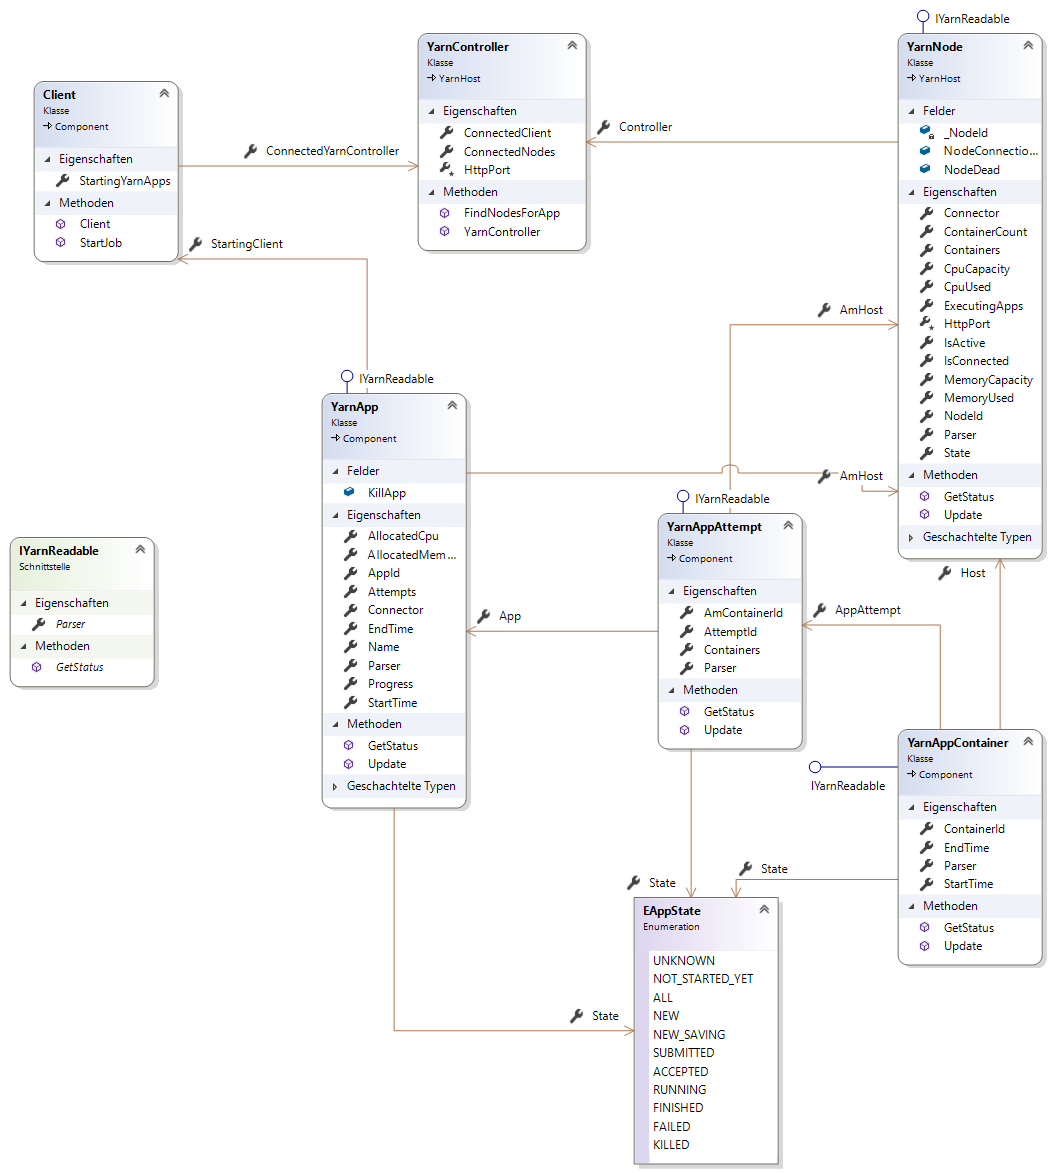
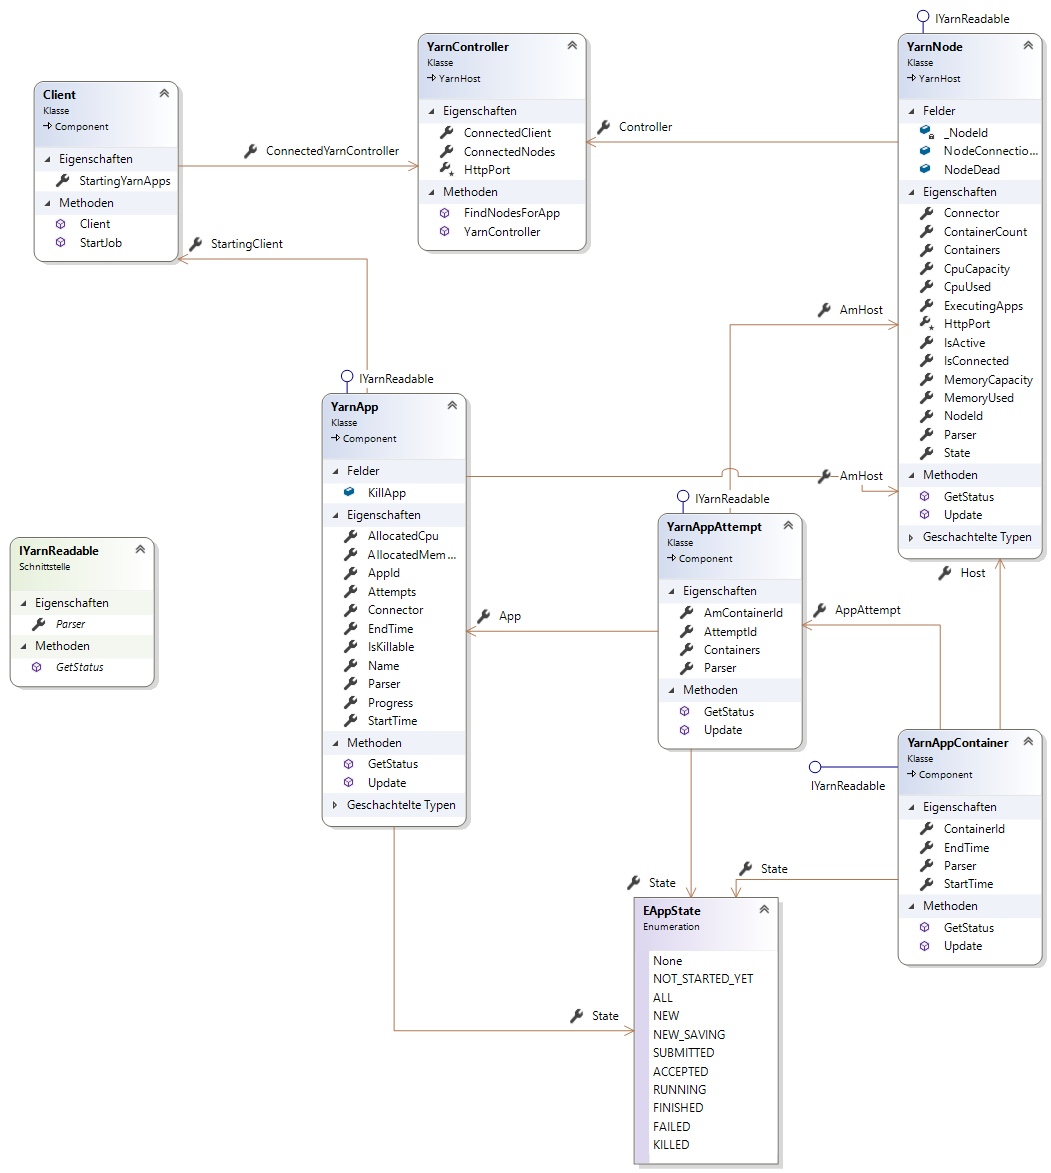
changed EAppState to bitwise enum

Changed region(s): [[0.3045, 0.5217, 0.4567, 0.7059], [0.6089, 0.798, 0.6698, 0.8286]]

diff --git a/Models/TestingHadoop/Modeling/HadoopModel/EAppState.cs b/Models/TestingHadoop/Modeling/HadoopModel/EAppState.cs
@@ -20,6 +20,8 @@
 // OUT OF OR IN CONNECTION WITH THE SOFTWARE OR THE USE OR OTHER DEALINGS IN
 // THE SOFTWARE.
 
+using System;
+
 namespace SafetySharp.CaseStudies.TestingHadoop.Modeling.HadoopModel
 {
     /// <summary>
@@ -32,51 +34,52 @@ namespace SafetySharp.CaseStudies.TestingHadoop.Modeling.HadoopModel
     /// 
     /// via http://hadoop.apache.org/docs/r2.7.1/hadoop-yarn/hadoop-yarn-site/YarnCommands.html
     /// </remarks>
+    [Flags]
     public enum EAppState
     {
         /// <summary>
         /// Default value
         /// </summary>
-        UNKNOWN,
+        None = 0,
 
         /// <summary>
         /// Job not started yet. State only for use inside model.
         /// Can be used to indicate, that the instance was not in use.
         /// </summary>
-        NOT_STARTED_YET,
+        NOT_STARTED_YET = 1,
 
-        ALL,
-        NEW,
-        NEW_SAVING,
+        ALL = 2,
+        NEW = 4,
+        NEW_SAVING = 8,
 
         /// <summary>
         /// Job is submitted
         /// </summary>
-        SUBMITTED,
+        SUBMITTED = 16,
 
         /// <summary>
         /// Job can be executed
         /// </summary>
-        ACCEPTED,
+        ACCEPTED = 32,
 
         /// <summary>
         /// Job is running
         /// </summary>
-        RUNNING,
+        RUNNING = 64,
 
         /// <summary>
         /// Job is finished
         /// </summary>
-        FINISHED,
+        FINISHED = 128,
 
         /// <summary>
         /// Job execution failed
         /// </summary>
-        FAILED,
+        FAILED = 256,
 
         /// <summary>
         /// Job was killed while execution
         /// </summary>
-        KILLED
+        KILLED = 512
     }
 }

diff --git a/Models/TestingHadoop/Modeling/Driver/CmdLineParser.cs b/Models/TestingHadoop/Modeling/Driver/CmdLineParser.cs
@@ -101,7 +101,7 @@ namespace SafetySharp.CaseStudies.TestingHadoop.Modeling.Driver
         }
 
         /// <summary>
-        /// Parses the <see cref="EAppState"/> or returns the default value <see cref="EAppState.UNKNOWN"/>
+        /// Parses the <see cref="EAppState"/> or returns the default value <see cref="EAppState.None"/>
         /// </summary>
         /// <param name="state">The state to parse</param>
         /// <returns>The parsed <see cref="EAppState"/></returns>
@@ -169,9 +169,12 @@ namespace SafetySharp.CaseStudies.TestingHadoop.Modeling.Driver
         /// </summary>
         /// <param name="states">The states</param>
         /// <returns>The applications</returns>
-        public ApplicationListResult[] ParseAppList(params EAppState[] states)
+        public ApplicationListResult[] ParseAppList(EAppState states = EAppState.None)
         {
-            var appStates = String.Join(",", states);
+            //var appStates = String.Join(",", states);
+            var appStates = String.Empty; // default return appStates by hadoop
+            if(states != EAppState.None)
+                appStates = states.ToString().Replace(" ", "");
 
             var fullResult = Connection.GetYarnApplicationList(appStates);
 

diff --git a/Models/TestingHadoop/Modeling/HadoopModel/YarnApp.cs b/Models/TestingHadoop/Modeling/HadoopModel/YarnApp.cs
@@ -108,6 +108,13 @@ namespace SafetySharp.CaseStudies.TestingHadoop.Modeling.HadoopModel
         /// </summary>
         public int Progress { get; set; }
 
+        /// <summary>
+        /// Indicates if the app can be killed
+        /// </summary>
+        public bool IsKillable => State != EAppState.None &&
+                                  (State & (EAppState.FAILED | EAppState.FINISHED | EAppState.KILLED | EAppState.NOT_STARTED_YET)) ==
+                                  EAppState.None;
+
         #endregion
 
         #region IYarnReadable Methods
@@ -176,8 +183,7 @@ namespace SafetySharp.CaseStudies.TestingHadoop.Modeling.HadoopModel
             public override void Update()
             {
                 base.Update();
-                if(State != EAppState.FAILED && State != EAppState.FINISHED && State != EAppState.KILLED &&
-                   State != EAppState.NOT_STARTED_YET)
+                if(IsKillable)
                     Connector.KillApplication(AppId);
             }
         }

diff --git a/Models/TestingHadoop/Tests/FullYarnAppArchitecutreTest.cs b/Models/TestingHadoop/Tests/FullYarnAppArchitecutreTest.cs
@@ -51,6 +51,24 @@ namespace SafetySharp.CaseStudies.TestingHadoop.Tests
         }
 
         [Test]
+        [TestCase(EAppState.None, Result = false)]
+        [TestCase(EAppState.ACCEPTED, Result = true)]
+        [TestCase(EAppState.ALL, Result = true)]
+        [TestCase(EAppState.FAILED, Result = false)]
+        [TestCase(EAppState.FINISHED, Result = false)]
+        [TestCase(EAppState.KILLED, Result = false)]
+        [TestCase(EAppState.NEW, Result = true)]
+        [TestCase(EAppState.NEW_SAVING, Result = true)]
+        [TestCase(EAppState.NOT_STARTED_YET, Result = false)]
+        [TestCase(EAppState.RUNNING, Result = true)]
+        [TestCase(EAppState.SUBMITTED, Result = true)]
+        public bool TestIsKillable(EAppState state)
+        {
+            _App.State = state;
+            return _App.IsKillable;
+        }
+
+        [Test]
         public void TestGetAppStatus()
         {
             _App.GetStatus();

diff --git a/Models/TestingHadoop/Modeling/Driver/IHadoopParser.cs b/Models/TestingHadoop/Modeling/Driver/IHadoopParser.cs
@@ -36,7 +36,7 @@ namespace SafetySharp.CaseStudies.TestingHadoop.Modeling.Driver
         /// </summary>
         /// <param name="states">The states</param>
         /// <returns>The applications</returns>
-        ApplicationListResult[] ParseAppList(params EAppState[] states);
+        ApplicationListResult[] ParseAppList(EAppState states = EAppState.None);
 
         /// <summary>
         /// Gets and parses the <see cref="YarnAppAttempt"/> list for the given <see cref="YarnApp.AppId"/>
